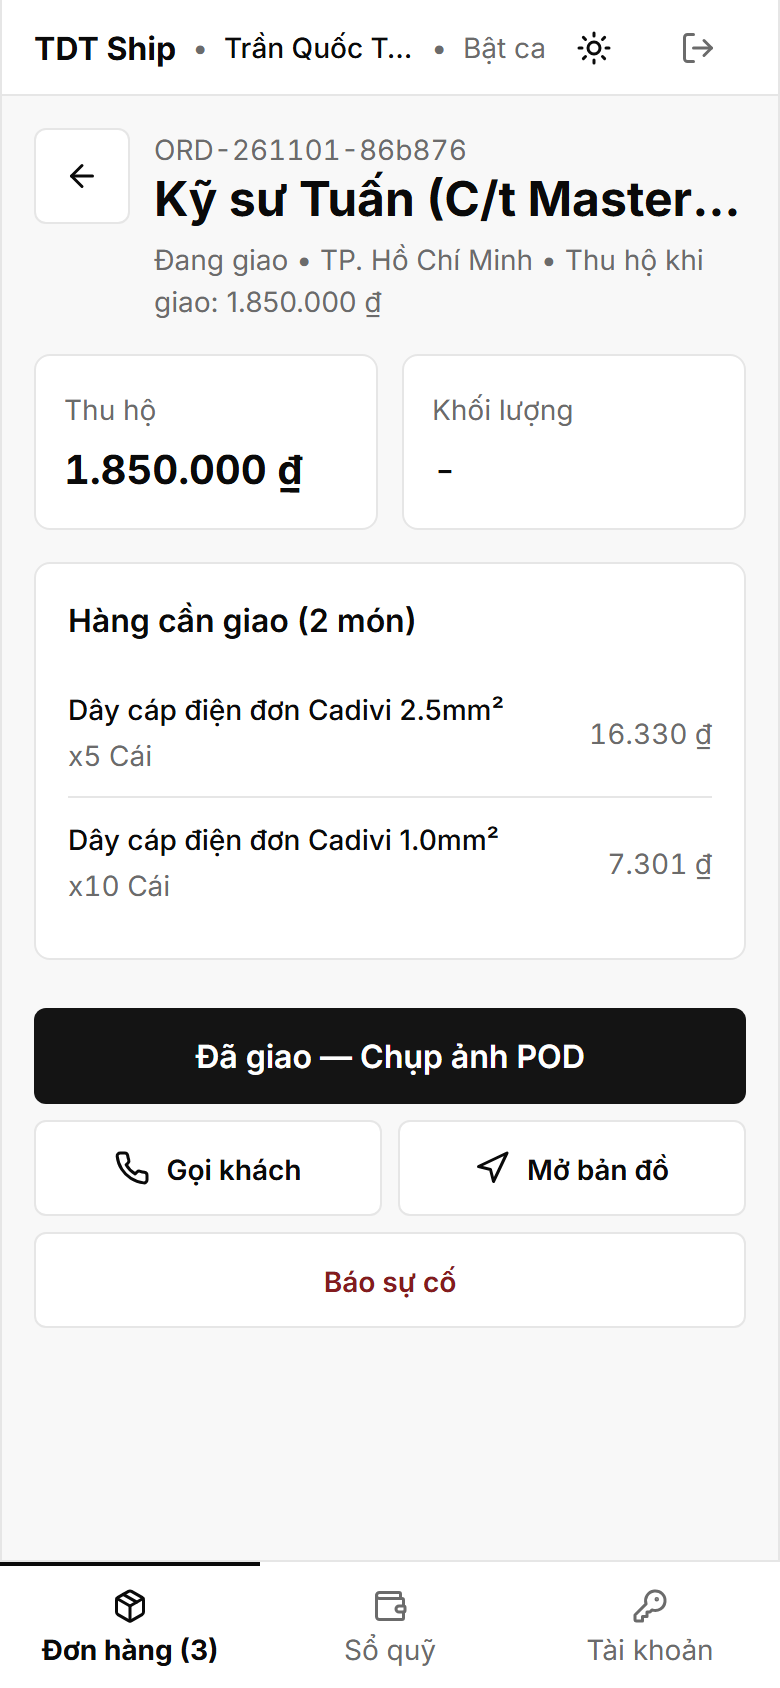
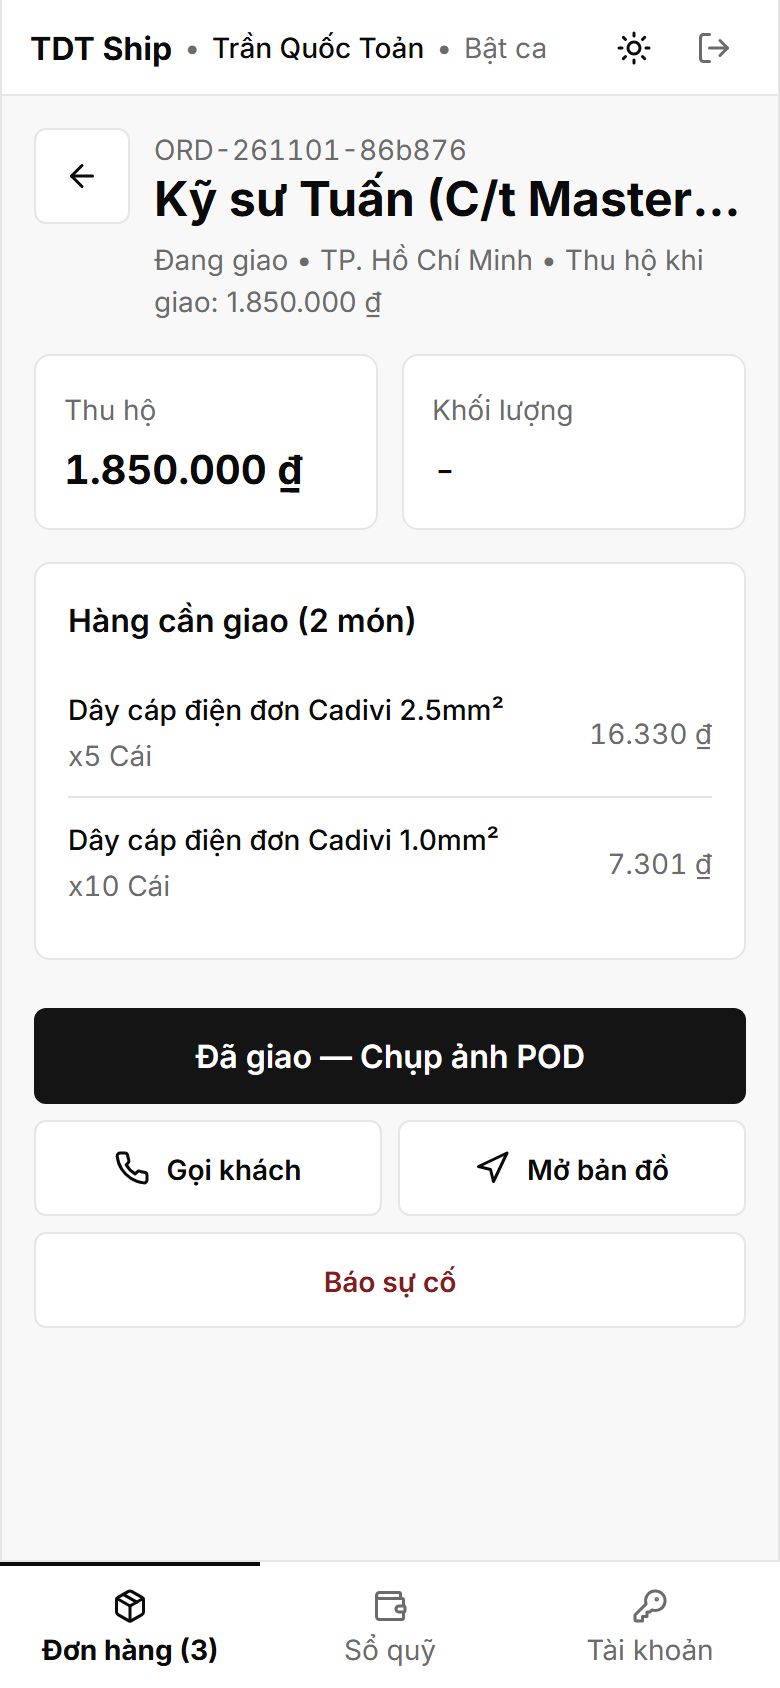
fix(shipper-ui): purge mock demo array, fix topbar truncation, and shorten addresses for sunlight readability

diff --git a/frontend/src/app/shipper/page.tsx b/frontend/src/app/shipper/page.tsx
@@ -15,7 +15,7 @@ import { formatCurrencyVND } from '@/lib/formatters';
 
 export default function ShipperDispatchFeedPage() {
   const { user } = useAuthStore();
-  const { orders, shippers, fetchOrders, fetchShippers, setOrders } = useManagerStore();
+  const { orders, shippers, fetchOrders, fetchShippers } = useManagerStore();
 
   const [filterTab, setFilterTab] = useState<ShipperFilterTabType>('ALL');
   const [selectedPodOrder, setSelectedPodOrder] = useState<Order | null>(null);
@@ -37,129 +37,11 @@ export default function ShipperDispatchFeedPage() {
     user?.fullName ||
     'Nhân viên giao hàng';
 
-  // Seed demo orders for field testing if driver has 0 assigned orders
-  const handleLoadDemoOrders = useCallback(() => {
-    const demoOrders: Order[] = [
-      {
-        id: 'ord-demo-shipping',
-        code: 'ORD-261101-86B876',
-        orderNumber: 'ORD-261101-86B876',
-        customerId: 'cust-demo-1',
-        customerName: 'Kỹ sư Tuấn (Masterise Lumiere Riverside Q2)',
-        customerPhone: '0918234567',
-        shippingAddress: 'Tháp B2, Căn 18.04, Dự án Masterise Lumiere, 259 Xa Lộ Hà Nội, An Phú, TP. Thủ Đức',
-        items: [
-          {
-            productId: 'prod-cad-02',
-            productName: 'Dây cáp điện Cadivi CV 2.5 mm²',
-            brand: 'Cadivi',
-            unitPrice: 720000,
-            quantity: 2,
-            unit: 'Cuộn 100m',
-            total: 1440000,
-          },
-          {
-            productId: 'prod-bm-01',
-            productName: 'Ống luồn dây PVC Bình Minh D20',
-            brand: 'Bình Minh',
-            unitPrice: 41000,
-            quantity: 10,
-            unit: 'Cây 2.92m',
-            total: 410000,
-          },
-        ],
-        totalAmount: 1850000,
-        status: 'SHIPPING',
-        paymentMethod: 'COD',
-        paymentStatus: 'UNPAID',
-        shipperId: currentShipperId,
-        shipperName: currentShipperName,
-        is2H: true,
-        deliveryType: '2H',
-        deadline2H: new Date(Date.now() + 42 * 60 * 1000).toISOString(),
-        version: 1,
-        statusHistory: [{ status: 'SHIPPING', timestamp: new Date().toISOString(), changedBy: 'System' }],
-        createdAt: new Date(Date.now() - 45 * 60 * 1000).toISOString(),
-      },
-      {
-        id: 'ord-demo-packing-paid',
-        code: 'ORD-261101-A40D82',
-        orderNumber: 'ORD-261101-A40D82',
-        customerId: 'cust-demo-2',
-        customerName: 'Nhà thầu Minh Phát (Biệt thự Thảo Điền)',
-        customerPhone: '0903888777',
-        shippingAddress: '12 Đường 49B, Phường Thảo Điền, TP. Thủ Đức, TP.HCM',
-        items: [
-          {
-            productId: 'prod-sch-01',
-            productName: 'Aptomat MCB Schneider Easy9 2P 32A',
-            brand: 'Schneider',
-            unitPrice: 165000,
-            quantity: 10,
-            unit: 'Cái',
-            total: 1650000,
-          },
-        ],
-        totalAmount: 1650000,
-        status: 'PACKING',
-        paymentMethod: 'VIETQR',
-        paymentStatus: 'PAID',
-        shipperId: currentShipperId,
-        shipperName: currentShipperName,
-        is2H: false,
-        version: 1,
-        statusHistory: [{ status: 'PACKING', timestamp: new Date().toISOString(), changedBy: 'System' }],
-        createdAt: new Date(Date.now() - 20 * 60 * 1000).toISOString(),
-      },
-      {
-        id: 'ord-demo-packing-cod',
-        code: 'ORD-261101-7FF85A',
-        orderNumber: 'ORD-261101-7FF85A',
-        customerId: 'cust-demo-3',
-        customerName: 'A. Long Thợ Điện (84 Chu Văn An Bình Thạnh)',
-        customerPhone: '0987112233',
-        shippingAddress: 'Số 84/3 Chu Văn An, Phường 26, Quận Bình Thạnh, TP.HCM',
-        items: [
-          {
-            productId: 'prod-cad-01',
-            productName: 'Dây cáp điện Cadivi CV 1.5 mm²',
-            brand: 'Cadivi',
-            unitPrice: 380000,
-            quantity: 2,
-            unit: 'Cuộn 100m',
-            total: 760000,
-          },
-        ],
-        totalAmount: 760000,
-        status: 'PACKING',
-        paymentMethod: 'COD',
-        paymentStatus: 'UNPAID',
-        shipperId: currentShipperId,
-        shipperName: currentShipperName,
-        is2H: true,
-        deliveryType: '2H',
-        deadline2H: new Date(Date.now() + 25 * 60 * 1000).toISOString(),
-        version: 1,
-        statusHistory: [{ status: 'PACKING', timestamp: new Date().toISOString(), changedBy: 'System' }],
-        createdAt: new Date(Date.now() - 10 * 60 * 1000).toISOString(),
-      },
-    ];
-
-    setOrders([...orders.filter((o) => o.shipperId !== currentShipperId), ...demoOrders]);
-  }, [currentShipperId, currentShipperName, orders, setOrders]);
-
   // Strict isolation: shipper only sees their assigned orders
   const myOrders = useMemo(() => {
     if (!currentShipperId) return [];
     return orders.filter((o) => o.shipperId === currentShipperId);
   }, [orders, currentShipperId]);
-
-  // Auto-seed if 0 orders
-  useEffect(() => {
-    if (currentShipperId && myOrders.length === 0) {
-      handleLoadDemoOrders();
-    }
-  }, [currentShipperId, myOrders.length, handleLoadDemoOrders]);
 
   // Active orders (not delivered, not cancelled)
   const activeOrders = useMemo(() => {
@@ -206,14 +88,19 @@ export default function ShipperDispatchFeedPage() {
       nextOrderCod > 0
         ? `thu hộ ${formatCurrencyVND(nextOrderCod)}`
         : 'đã thanh toán (0 ₫)';
-    return `Tiếp theo: ${nextOrder.code} (${codText}). Còn ${activeOrders.length} đơn nữa trong ngày, tổng thu hộ còn lại ${formatCurrencyVND(totalRemainingCod)}.`;
+    const remainingCount = activeOrders.length - 1;
+    const remainingCountText =
+      remainingCount > 0
+        ? `còn ${remainingCount} đơn nữa trong ngày`
+        : 'đơn cuối cùng trong ngày';
+    return `Tiếp theo: ${nextOrder.code} (${codText}), ${remainingCountText}, tổng thu hộ còn lại ${formatCurrencyVND(totalRemainingCod)}.`;
   }, [nextOrder, nextOrderCod, activeOrders.length, totalRemainingCod]);
 
-  // Remaining list orders (excluding nextOrder so it doesn't duplicate)
+  // Remaining queued orders (excluding nextOrder so it doesn't duplicate)
   const listOrdersPool = useMemo(() => {
-    if (!nextOrder) return myOrders;
-    return myOrders.filter((o) => o.id !== nextOrder.id);
-  }, [myOrders, nextOrder]);
+    if (!nextOrder) return activeOrders;
+    return activeOrders.filter((o) => o.id !== nextOrder.id);
+  }, [activeOrders, nextOrder]);
 
   const tabCounts = useMemo(() => {
     return {
@@ -238,7 +125,7 @@ export default function ShipperDispatchFeedPage() {
   return (
     <RouteGuard allowedRoles={['SHIPPER']} fallbackUrl="/login" forbiddenUrl="/403">
       <ShipperShell>
-        <div className="px-4 py-4 space-y-4">
+        <div className="px-4 py-3 space-y-3">
           {/* 2. Tiêu đề màn hình 24px + 1 câu finding 14px */}
           <div>
             <h1 className="text-[24px] font-bold leading-tight text-[#0a0a0a]">

diff --git a/frontend/src/components/shipper/ShipperShell.tsx b/frontend/src/components/shipper/ShipperShell.tsx
@@ -71,14 +71,14 @@ export default function ShipperShell({ children }: ShipperShellProps) {
       >
         {/* 1. Top bar: exact 48px height, no emoji, no greeting banner */}
         <header
-          className={`sticky top-0 z-40 h-[48px] px-4 flex items-center justify-between border-b ${
+          className={`sticky top-0 z-40 h-[48px] px-3.5 flex items-center justify-between border-b ${
             isHighContrast
               ? 'bg-[#1c1c1c] border-[#2a2a2a] text-[#f5f5f5]'
               : 'bg-white border-[#e6e6e6] text-[#0a0a0a]'
           }`}
         >
           {/* Driver identity & shift */}
-          <div className="flex items-center gap-2 min-w-0">
+          <div className="flex items-center gap-1.5 min-w-0">
             <span className="text-[16px] font-bold text-[#0a0a0a] shrink-0 dark:text-[#f5f5f5]">
               TDT Ship
             </span>
@@ -99,7 +99,7 @@ export default function ShipperShell({ children }: ShipperShellProps) {
               onClick={toggleHighContrast}
               title={isHighContrast ? 'Chuyển sang giao diện sáng' : 'Chuyển sang chế độ tối'}
               aria-label="Chuyển chế độ sáng tối"
-              className={`min-h-[48px] min-w-[48px] p-2 rounded-[6px] flex items-center justify-center transition-colors focus-visible:outline-none focus-visible:ring-2 focus-visible:ring-[#1d5fbf] ${
+              className={`min-h-[48px] w-[36px] p-2 rounded-[6px] flex items-center justify-center transition-colors focus-visible:outline-none focus-visible:ring-2 focus-visible:ring-[#1d5fbf] ${
                 isHighContrast
                   ? 'text-[#f5f5f5] hover:bg-[#2a2a2a]'
                   : 'text-[#0a0a0a] hover:bg-[#f2f2f2]'
@@ -117,7 +117,7 @@ export default function ShipperShell({ children }: ShipperShellProps) {
               onClick={handleLogout}
               title="Đăng xuất tài xế"
               aria-label="Đăng xuất tài xế"
-              className={`min-h-[48px] min-w-[48px] p-2 rounded-[6px] flex items-center justify-center transition-colors focus-visible:outline-none focus-visible:ring-2 focus-visible:ring-[#1d5fbf] ${
+              className={`min-h-[48px] w-[36px] p-2 rounded-[6px] flex items-center justify-center transition-colors focus-visible:outline-none focus-visible:ring-2 focus-visible:ring-[#1d5fbf] ${
                 isHighContrast
                   ? 'text-[#a0a0a0] hover:text-[#ffedea] hover:bg-[#2a2a2a]'
                   : 'text-[#6b6b6b] hover:text-[#831c1e] hover:bg-[#ffedea]'

diff --git a/frontend/src/components/shipper/ShipperOrderCard.tsx b/frontend/src/components/shipper/ShipperOrderCard.tsx
@@ -9,6 +9,19 @@ import { useManagerStore } from '@/store/useManagerStore';
 import { useToast } from '@/hooks/useToast';
 import { Phone, Navigation, Loader2 } from 'lucide-react';
 
+/**
+ * Shortens a shipping address to the most relevant local district/ward/city
+ * for quick recognition under sunlight (e.g. "An Phú, TP. Thủ Đức").
+ */
+export function formatShortAddress(address?: string | null): string {
+  if (!address || typeof address !== 'string') return '-';
+  const clean = address.trim();
+  if (!clean) return '-';
+  const segments = clean.split(',').map((s) => s.trim()).filter(Boolean);
+  if (segments.length <= 2) return clean;
+  return segments.slice(-2).join(', ');
+}
+
 interface ShipperOrderCardProps {
   order: Order;
   shipperId: string;
@@ -229,10 +242,10 @@ export default function ShipperOrderCard({
         </span>
       </div>
 
-      {/* Line 2: Truncated address + status */}
+      {/* Line 2: Shortened address + status */}
       <div className="mt-1 flex items-center justify-between gap-3">
         <p className="text-[14px] text-[#6b6b6b] truncate flex-1">
-          {order.shippingAddress}
+          {formatShortAddress(order.shippingAddress)}
         </p>
         <div className="shrink-0">{getStatusBadge()}</div>
       </div>

diff --git a/frontend/src/app/shipper/orders/[orderId]/page.tsx b/frontend/src/app/shipper/orders/[orderId]/page.tsx
@@ -12,6 +12,7 @@ import { useManagerStore } from '@/store/useManagerStore';
 import { useToast } from '@/hooks/useToast';
 import { formatCurrencyVND, formatDateTime } from '@/lib/formatters';
 import { getTelUrl, getGoogleMapsUrl } from '@/lib/shipperHelpers';
+import { formatShortAddress } from '@/components/shipper/ShipperOrderCard';
 import { api } from '@/lib/api';
 import { mapOrderFromApi } from '@/lib/orderMapper';
 import { Order } from '@/types/manager';
@@ -176,7 +177,7 @@ export default function ShipperOrderDetailPage() {
                 {customerName}
               </h1>
               <p className="text-[14px] text-[#6b6b6b] mt-1 leading-[1.5]">
-                {statusLabel} • {order.shippingAddress} • Thu hộ khi giao:{' '}
+                {statusLabel} • {formatShortAddress(order.shippingAddress)} • Thu hộ khi giao:{' '}
                 {isCod ? formatCurrencyVND(totalAmount) : '0 ₫'}
               </p>
             </div>

diff --git a/frontend/src/components/shipper/ShipperWidgets.tsx b/frontend/src/components/shipper/ShipperWidgets.tsx
@@ -144,7 +144,7 @@ export default function ShipperWidgets({
                 {type === 'waiting' && (
                   <span
                     aria-label="Điểm chờ"
-                    className="w-2.5 h-2.5 rounded-full bg-[#e6e6e6] border border-[#6b6b6b] shrink-0"
+                    className="w-2.5 h-2.5 rounded-full bg-[#6b6b6b] shrink-0"
                   />
                 )}
 
